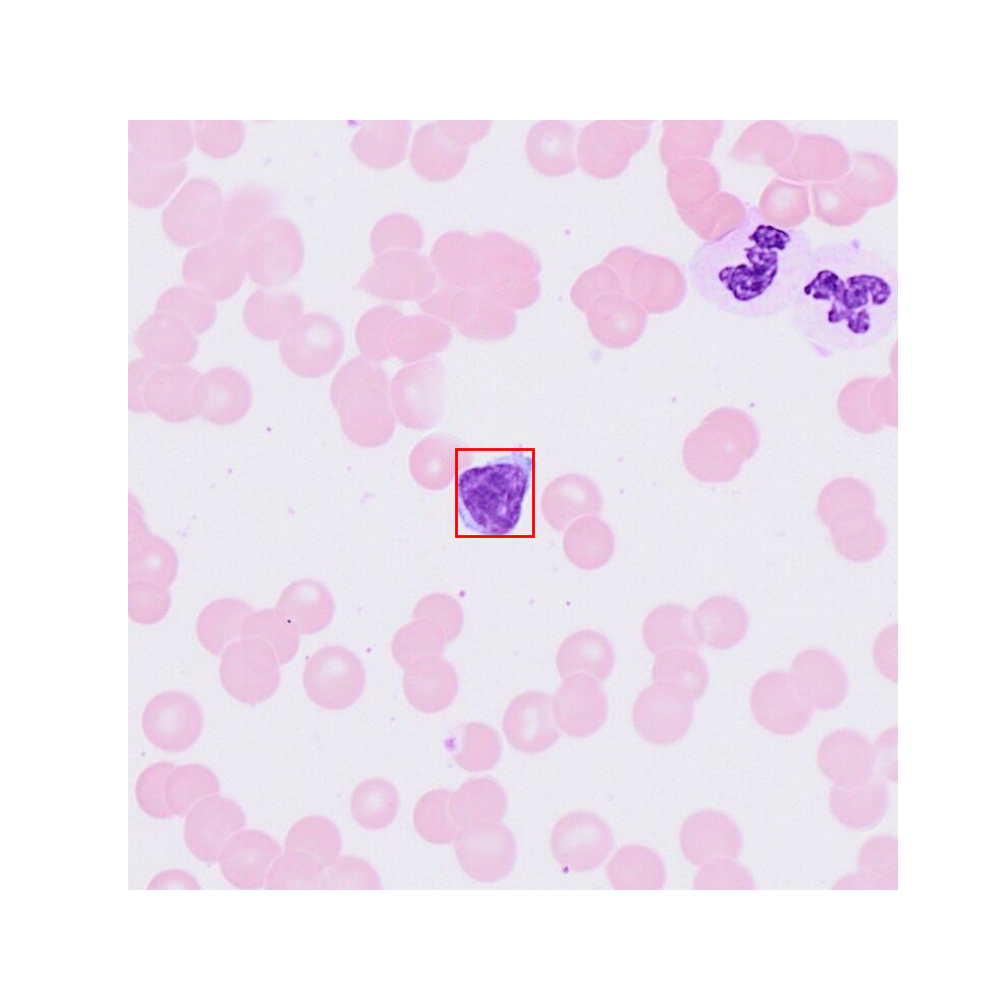
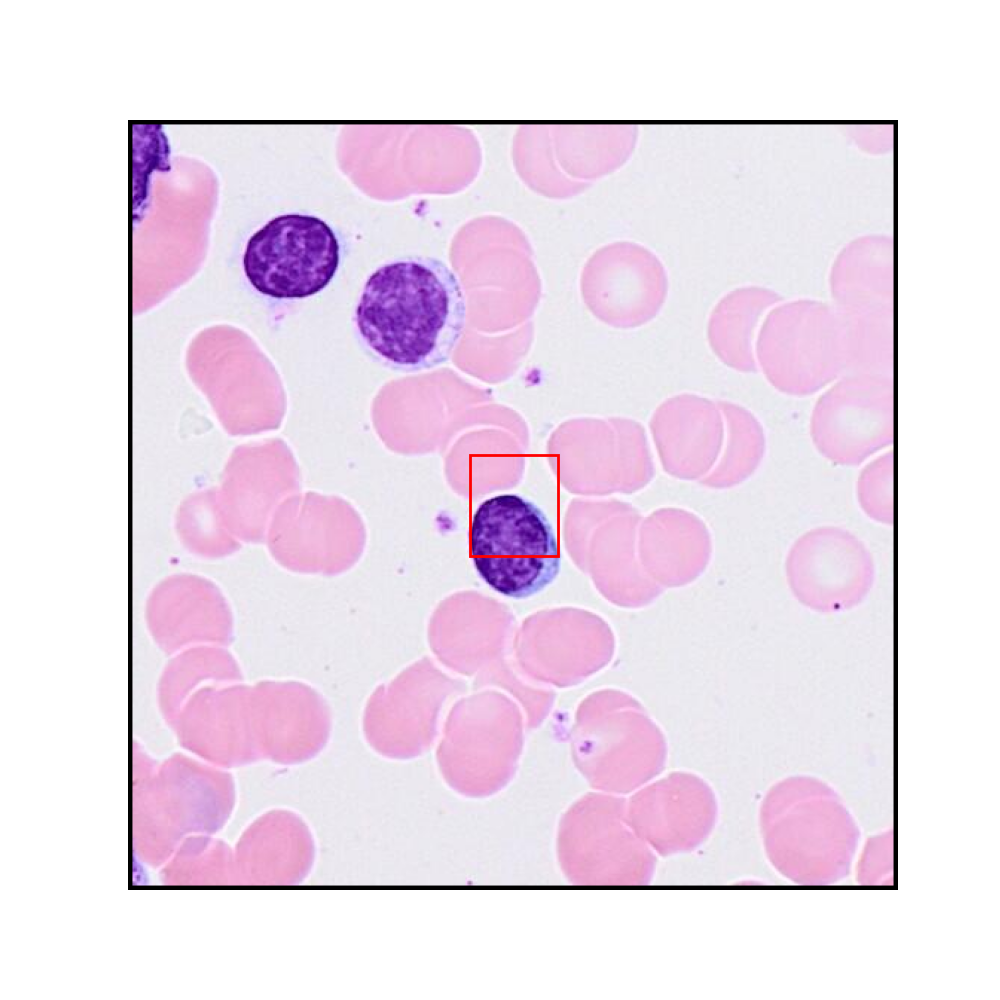
Dino experimentation!

diff --git a/clean_annotations/C_bis_dino_inference_timm.py b/clean_annotations/C_bis_dino_inference_timm.py
@@ -15,11 +15,13 @@ import csv
 import shutil
 
 def extract_features_from_bbox(
-    img768,
+    img,
     bbox,
     img_transform,
     dino,
     device,
+    size_img_new,
+    number_of_first_token_removed,
     dino_dim=384,
     vis=True,
 ):
@@ -27,7 +29,7 @@ def extract_features_from_bbox(
     Extract feature vector from the bounding box region in the image using DINO.
     
     Args:
-        img768 (PIL.Image): Image containing the bounding box at its center.
+        img (PIL.Image): Image containing the bounding box at its center.
         bbox (tuple): Bounding box coordinates (imgnumber, bbox_row, bbox_col, bbox_height, bbox_width).
         img_transform (callable): Image transformation pipeline.
         device (torch.device): Device for computation.
@@ -39,26 +41,38 @@ def extract_features_from_bbox(
         np.ndarray: Extracted feature vector.
     """
     bbox_row_rel, bbox_col_rel, bbox_bottom_rel, bbox_right_rel = bbox[0], bbox[1], bbox[2], bbox[3]
-    size_img = 224
-    new_size = (size_img, size_img)  # 756 est le multiple de 14 le plus proche de 768
-    img_cropped = img768.resize(new_size, Image.BILINEAR)   
+    width, height = img.size
+    left = (width - size_img_new) // 2
+    top = (height - size_img_new) // 2
+    right = left + size_img_new
+    bottom = top + size_img_new
+    img_downsampled = img.crop((left, top, right, bottom))   
     # --- DINO inference --- 
     with torch.no_grad():
-        input_img = img_transform(img_cropped).reshape(1, 3, size_img, size_img).to(device)
-        feats = dino.forward_features(input_img)["x_norm_patchtokens"]
+        input_img = img_transform(img_downsampled).reshape(1, 3, size_img_new, size_img_new).to(device)
+        feats = dino.forward_features(input_img)
+        print("feats shape", feats.shape)
+        feats = feats[:,number_of_first_token_removed:,:]
+        patch_dim = int(np.sqrt(feats.shape[1]))
+        print("patch_dim", patch_dim)
         feats = feats.reshape(
-            1, 54, 54, dino_dim
+            1, patch_dim, patch_dim, dino_dim
         )
     features = feats.squeeze(0).cpu().numpy()  # Shape: [48, 48, dino_dim]
+    adjusted_bbox_row_rel = bbox_row_rel - top
+    adjusted_bbox_col_rel = bbox_col_rel - left
+    adjusted_bbox_bottom_rel = bbox_bottom_rel - top
+    adjusted_bbox_right_rel = bbox_right_rel - left
     local_bbox = (
-        bbox_row_rel, bbox_col_rel, bbox_bottom_rel, bbox_right_rel
+        adjusted_bbox_row_rel, adjusted_bbox_col_rel, adjusted_bbox_bottom_rel, adjusted_bbox_right_rel
     )
     # Create segmentation mask for the bounding box
-    seg_crop = np.zeros((size_img, size_img), dtype=np.uint8)
+    seg_crop = np.zeros((size_img_new, size_img_new), dtype=np.uint8)
     seg_crop[local_bbox[0]:local_bbox[2], local_bbox[1]:local_bbox[3]] = 1
+    
     # Downsample the segmentation to match the DINO feature map size
     seg_downsampled = cv2.resize(
-        (seg_crop * 255).astype(np.uint8), (54, 54), interpolation=cv2.INTER_LINEAR
+        (seg_crop * 255).astype(np.uint8), (patch_dim, patch_dim), interpolation=cv2.INTER_LINEAR
     )
     seg_downsampled_bool = seg_downsampled > 127  # Shape: [48, 48]
     
@@ -73,14 +87,13 @@ def extract_features_from_bbox(
     # Visualization
     
     if vis:
-        # Visualize the bounding box on the full image
         plt.figure(figsize=(10, 10))
-        plt.imshow(img768)
+        plt.imshow(img_downsampled)
         plt.gca().add_patch(
             plt.Rectangle(
-                (bbox_col_rel - 10, bbox_row_rel - 10),  # Position (x, y)
-                bbox_right_rel - bbox_col_rel + 20,  # Largeur = bbox_right - bbox_col (+10 de chaque côté)
-                bbox_bottom_rel - bbox_row_rel + 20,  # Hauteur = bbox_bottom - bbox_row (+10 de chaque côté)
+                (local_bbox[1], local_bbox[0]),  # Position (x, y)
+                local_bbox[3] - local_bbox[1],  # Largeur = bbox_right - bbox_col (+10 de chaque côté)
+                local_bbox[2] - local_bbox[0],  # Hauteur = bbox_bottom - bbox_row (+10 de chaque côté)
                 edgecolor="red",
                 facecolor="none",
                 lw=2,
@@ -88,20 +101,13 @@ def extract_features_from_bbox(
         )
         plt.axis("off")
         plt.savefig("out")
-
-        # Visualize the cropped cell (just the patch for debugging)
-        img_cell = img768.crop((bbox_col_rel - 10, bbox_row_rel - 10, bbox_right_rel + 10, bbox_bottom_rel + 10))
+        img_cell = img_downsampled.crop((local_bbox[1], local_bbox[0], local_bbox[3], local_bbox[2]))
         img_cell.save("out_cells.png")
-
-        # Visualize the segmentation mask applied to the DINO feature map
         plt.figure(figsize=(10, 10))
         plt.imshow(seg_downsampled_bool, cmap='gray')
         plt.title("Downsampled Segmentation Mask")
         plt.axis("off")
         plt.savefig("segmentation_mask.png")
-
-
-    
     return avg_feature
 
 
@@ -212,6 +218,12 @@ def load_image_of_bbox(bbox, center_crop=False):
         right = left + CROP_SIZE
         lower = upper + CROP_SIZE
 
+        # adjust the bbox coordinates according to the new cropped image 
+        adjusted_bbox_row = bbox_row_rel - upper
+        adjusted_bbox_col = bbox_col_rel - left
+        adjusted_bbox_bottom = bbox_bottom_rel - upper
+        adjusted_bbox_right = bbox_right_rel - left
+
         # Ensure we don't go outside the composite image boundaries
         if left < 0:
             right -= left
@@ -237,49 +249,126 @@ def load_image_of_bbox(bbox, center_crop=False):
             )
             cropped_image = padded
 
-        return cropped_image, [bbox_row_rel, bbox_col_rel, bbox_bottom_rel, bbox_right_rel] 
+        return cropped_image, [int(adjusted_bbox_row), int(adjusted_bbox_col), int(adjusted_bbox_bottom), int(adjusted_bbox_right)] 
     else:
         return composite_image, [bbox_row_rel, bbox_col_rel, bbox_bottom_rel, bbox_right_rel] 
 
 
-def main(dstdir, bbox_file, dino_size="small", device="cuda"):
-    """Re-run Dino on bounding boxes extracted from .pkl file and save results as .npy."""
+def main(dstdir, bbox_file, dino_model="vit_giant_patch14_reg4_dinov2.lvd142m", device="cuda"):
+    """Re-run Dino on bounding boxes extracted from file and save results as .npy."""
     # 1. --- Load de DINO --- 
+    dino_models = timm.list_models('*dino*', pretrained=True)
+    print("liste de tous les models dino disponibles sur Timm", dino_models)
     device = torch.device(device if torch.cuda.is_available() else "cpu")
     print("Initializing Dino...")
     # Load DINO using timm
-    if dino_size == "small":
-        dino = timm.create_model("vit_small_patch16_224", pretrained=True)  # Use the small variant (adjust to the appropriate DINO variant)
+    
+    if dino_model == "vit_small_patch8_224.dino":
+        dino = timm.create_model("vit_small_patch8_224.dino", pretrained=True)  # Use the small variant (adjust to the appropriate DINO variant)
         dino = dino.to(device)
+        dino = dino.eval()
         dino_dim = 384
-    elif dino_size == "big": 
-        # For big model, use a larger variant, e.g., vit_large_patch32_224
-        dino = timm.create_model("vit_large_patch32_384", pretrained=True)
+        size_img_new = 224
+        center_crop = True
+    elif dino_model == "vit_small_patch14_dinov2.lvd142m":
+        dino = timm.create_model("vit_small_patch14_dinov2.lvd142m", pretrained=True)  # Use the small variant (adjust to the appropriate DINO variant)
         dino = dino.to(device)
-        dino_dim = 768  # Change dino_dim accordingly for the big mod
+        dino = dino.eval()
+        dino_dim = 384
+        size_img_new = 518
+        center_crop = True
+    elif dino_model == "vit_small_patch14_reg4_dinov2.lvd142m":
+        dino = timm.create_model("vit_small_patch14_reg4_dinov2.lvd142m", pretrained=True)  # Use the small variant (adjust to the appropriate DINO variant)
+        dino = dino.to(device)
+        dino = dino.eval()
+        dino_dim = 384
+        size_img_new = 518
+        center_crop = True
+    elif dino_model == "vit_small_patch16_224.dino":
+        dino = timm.create_model("vit_small_patch16_224.dino", pretrained=True)  # Use the small variant (adjust to the appropriate DINO variant)
+        dino = dino.to(device)
+        dino = dino.eval()
+        dino_dim = 384
+        size_img_new = 224
+        center_crop = True
+    elif dino_model == "vit_base_patch8_224.dino" : 
+        dino = timm.create_model("vit_base_patch8_224.dino", pretrained=True)  # Use the small variant (adjust to the appropriate DINO variant)
+        dino = dino.to(device)
+        dino = dino.eval()
+        dino_dim = 768
+        size_img_new = 224
+        center_crop = True
+    elif dino_model == "vit_base_patch16_224.dino" : 
+        dino = timm.create_model("vit_base_patch16_224.dino", pretrained=True)  # Use the small variant (adjust to the appropriate DINO variant)
+        dino = dino.to(device)
+        dino = dino.eval()
+        dino_dim = 768
+        size_img_new = 224
+        center_crop = True
+    elif dino_model == "vit_base_patch14_dinov2.lvd142m" : 
+        dino = timm.create_model("vit_base_patch14_dinov2.lvd142m", pretrained=True)  # Use the small variant (adjust to the appropriate DINO variant)
+        dino = dino.to(device)
+        dino = dino.eval()
+        dino_dim = 768
+        size_img_new = 518
+        center_crop = True
+    elif dino_model == "vit_base_patch14_reg4_dinov2.lvd142m" : 
+        dino = timm.create_model("vit_base_patch14_reg4_dinov2.lvd142m", pretrained=True)  # Use the small variant (adjust to the appropriate DINO variant)
+        dino = dino.to(device)
+        dino = dino.eval()
+        dino_dim = 768
+        size_img_new = 518
+        center_crop = True
+    elif dino_model == "vit_large_patch14_dinov2.lvd142m": 
+        dino = timm.create_model("vit_large_patch14_dinov2.lvd142m", pretrained=True)
+        dino = dino.to(device)
+        dino = dino.eval()
+        dino_dim = 1024  
+        size_img_new = 518
+        center_crop = False
+    elif dino_model == "vit_large_patch14_reg4_dinov2.lvd142m": 
+        dino = timm.create_model("vit_large_patch14_reg4_dinov2.lvd142m", pretrained=True)
+        dino = dino.to(device)
+        dino = dino.eval()
+        dino_dim = 1024  
+        size_img_new = 518
+        center_crop = False
+    elif dino_model == "vit_giant_patch14_dinov2.lvd142m" : 
+        dino = timm.create_model("vit_giant_patch14_dinov2.lvd142m", pretrained=True)
+        dino = dino.to(device)
+        dino = dino.eval()
+        dino_dim = 1536  # Change dino_dim accordingly for the big mod
+        size_img_new = 518
+        center_crop = True
+    elif dino_model == "vit_giant_patch14_reg4_dinov2.lvd142m" : 
+        dino = timm.create_model("vit_giant_patch14_reg4_dinov2.lvd142m", pretrained=True)
+        dino = dino.to(device)
+        dino = dino.eval()
+        dino_dim = 1536  # Change dino_dim accordingly for the big mod
+        size_img_new = 518
+        center_crop = True
+        number_of_first_token_removed = 5
     else:
-        raise ValueError(f"{dino_size} not recognized, should be ['small']")
+        raise ValueError(f"{dino_model} not recognized, should be ['small']")
     dino.eval()
     # 2. --- Image initialization ---
-    img_transform = transforms.Compose([
-        transforms.ToTensor(),
-        transforms.Normalize(mean=[0.485, 0.456, 0.406], std=[0.229, 0.224, 0.225]),
-    ])
+    data_config = timm.data.resolve_model_data_config(dino)
+    img_transform = timm.data.create_transform(**data_config, is_training=False)
     dstdir = Path(dstdir)
-    output_file = dstdir / "X_labeled_new.npy"
+    output_file = dstdir / f"X_labeled_{dino_model}.npy"
     X_features = []
     # 3. --- Extraction of features vectors --- 
     bboxes = np.load(bbox_file)
     print("Processing bounding boxes...")
     for bbox in tqdm.tqdm(bboxes, desc="Processing bounding boxes", unit="bbox"):
         # bbox : img_number, x_min, y_min, height, width
-        image, bbox_coord = load_image_of_bbox(bbox, center_crop=False)
-        feature_vector = extract_features_from_bbox(image, bbox_coord, img_transform, dino, device, dino_dim=dino_dim)
+        image, bbox_coord = load_image_of_bbox(bbox, center_crop=center_crop)
+        feature_vector = extract_features_from_bbox(image, bbox_coord, img_transform, dino, device, size_img_new, number_of_first_token_removed, dino_dim=dino_dim)
         # 4. --- Save the feature vectors array to the .npy file ---
         X_features.append(feature_vector)
         X_features_np = np.array(X_features, dtype=np.float32)
         np.save(output_file, X_features_np)
-    print(f"Feature extraction completed. Saved {X_features.shape[0]} feature vectors.")
+    print(f"Feature extraction completed. Saved {X_features_np.shape[0]} feature vectors.")
 
 if __name__ == "__main__":
     fire.Fire(main)

diff --git a/clean_annotations/C_bis_dino_inference.py b/clean_annotations/C_bis_dino_inference.py
@@ -281,7 +281,7 @@ def main(dstdir, bbox_file, dino_size="large", device="cuda"):
         dino = torch.hub.load("facebookresearch/dinov2", "dinov2_vitl14", force_reload=False)  # Example of a bigger model
         dino = dino.to(device)
         dino_dim = 1024  
-    elif dino_size == "large" : 
+    elif dino_size == "giant" : 
         dino = torch.hub.load("facebookresearch/dinov2", "dinov2_vitg14", force_reload=False)  # Example of a bigger model
         dino = dino.to(device)
         dino_dim = 1536  
